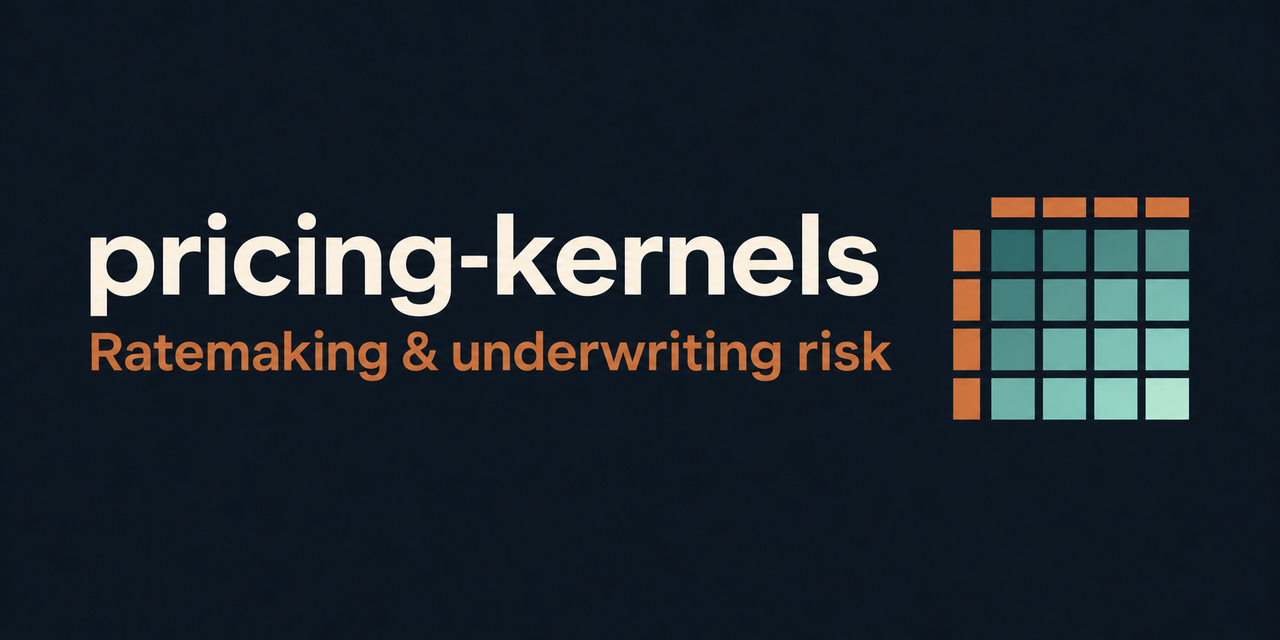
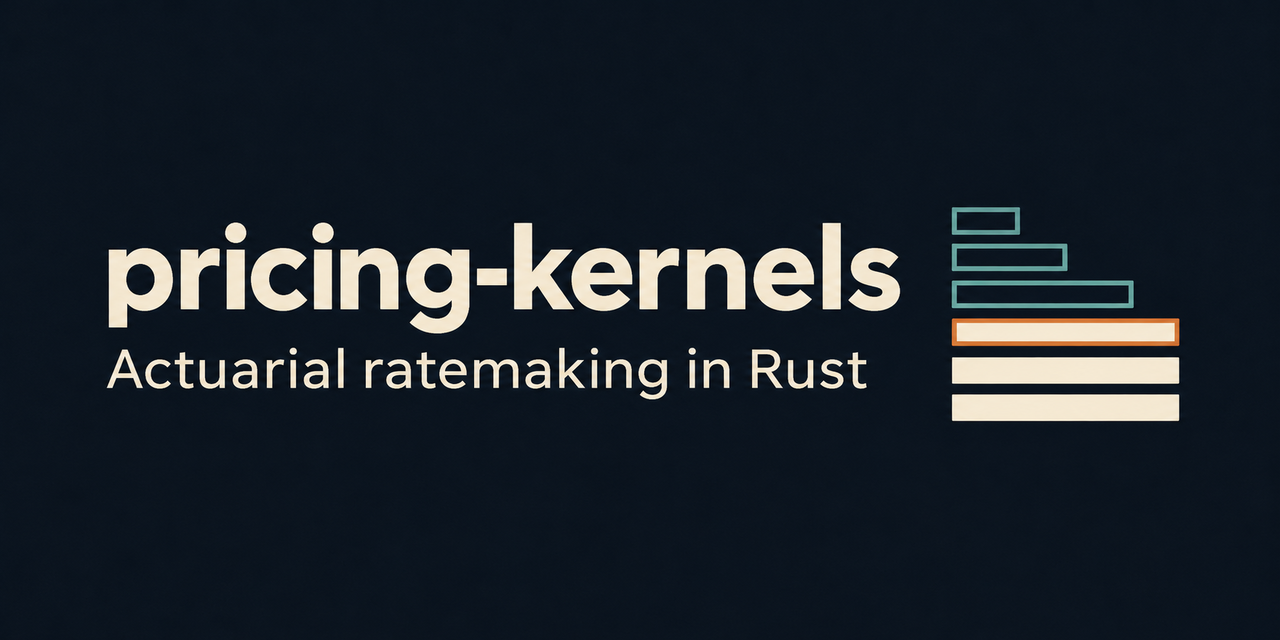
chore: refresh brand assets, exclude assets/scripts from package, sanitize install-hooks

Changed region(s): [[0.0625, 0.2812, 0.9375, 0.6562]]

diff --git a/README.md b/README.md
@@ -1,5 +1,5 @@
 <p align="center">
-  <img src="assets/banner.svg" alt="pricing-kernels — Ratemaking & underwriting risk" width="100%" />
+  <img src="assets/banner.png" alt="pricing-kernels — Actuarial ratemaking in Rust" width="100%" />
 </p>
 
 <p align="center">
